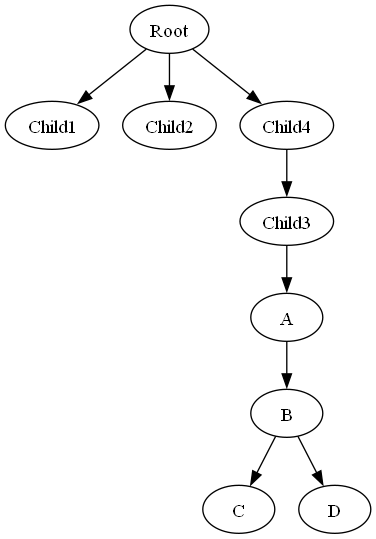
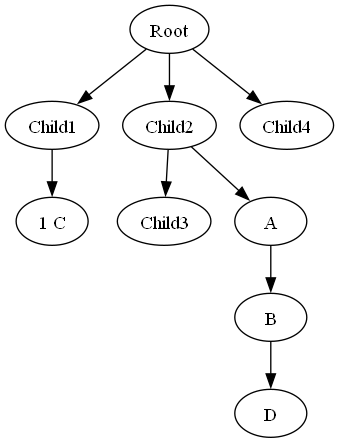
Changes

diff --git a/parseur/candelete.py b/parseur/candelete.py
@@ -1,17 +1,51 @@
-from anytree import Node, RenderTree
+from anytree import Node, RenderTree, AsciiStyle, search, find_by_attr, PreOrderIter
 
 # Create a tree structure
 root = Node("Root")
 child1 = Node("Child1", parent=root)
 child2 = Node("Child2", parent=root)
-child2 = Node("Child4", parent=root)
+child4 = Node("Child4", parent=root)
 child3 = Node("Child3", parent=child2)
+child5 = Node("1 C", parent = child1)
 
 
 A = Node("A", parent=child3)
 B = Node("B", parent=A)
 C = Node("C", parent=B)
 D  = Node("D", parent=B)
+
+print("child2 name" ,child2.name)
+
+C.parent=None
+
+# Number of edges on the longest path to a leaf Node
+print("Root height ", root.height)
+print("D height ", D.height)
+# Number of edges on the longest path to a root Node
+print("Root deapth ", root.depth)
+# Tree size — the number of nodes in tree starting at this node.
+print("B.size ", B.size)
+print("D.size", D.size)
+
+print("descendants : " , child3.descendants)
+print("siblings :  " , child2.siblings)
+print("child1.is_leaf", child1.is_leaf)
+print("D.is_leaf", B.is_leaf)
+A.parent=child2
+
+
+for node in D.iter_path_reverse():
+    print(node)
+
+
+
+
+result = search.findall(root, filter_=lambda node: node.name in ("C", "B"))
+print(result)
+
+#print([list(leaf.path) for leaf in PreOrderIter(root, filter_=lambda node: node.is_leaf)])
+
+print(list(PreOrderIter(root, filter_=lambda node: node.is_leaf)))
 
 # Display the tree structure
 for pre, _, node in RenderTree(root):

diff --git a/parseur/main_parseur.py b/parseur/main_parseur.py
@@ -1,9 +1,6 @@
-from anytree import Node, RenderTree
-from anytree.exporter import DotExporter
+import filecmp
 
-import lexeur.file_to_code_ter as file
-import parseur.functions
-import lexeur.dictionnaire_ter as dictionnaire_ter
+import 
 
 
 def generate_tree(name_file):
@@ -42,7 +39,7 @@ if __name__ == '__main__':
 
     # todo ne marche pas
     print("On va maintenant tester si notre parseur fonctionne avec un programme qui contient des if et des while :")
-    token_list = file.get_token("exemples/exemple_if_while.ada")
+    token_list = filecmp.get_token("exemples/exemple_if_while.ada")
     print(token_list)
     root = Node('N1')
     print(parseur.functions.fonction_N1(token_list, root))
